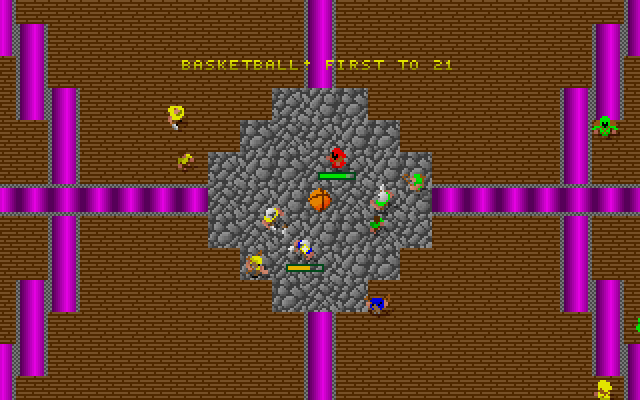
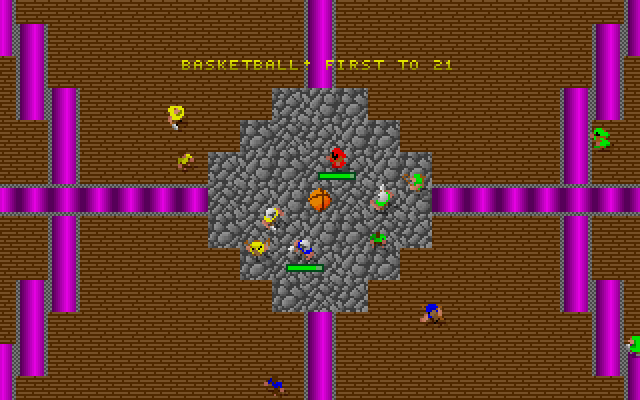
PR 190 proof media refresh: hoop sprite

diff --git a/pr-190/manifest.md b/pr-190/manifest.md
@@ -1,0 +1,76 @@
+# Basketball mode PR media manifest
+
+All captures come from `openglad_demo` (build: `cmake --build --preset ci-test --target openglad_demo`)
+running headless, fully seeded, one 320x200 session, one indexed BMP per simulation tick.
+Common env for every run:
+`SDL_VIDEODRIVER=dummy SDL_AUDIODRIVER=dummy SDL_RENDER_DRIVER=software OPENGLAD_DEMO_GRID=1x1 OPENGLAD_DEMO_CAMPAIGN=modes OPENGLAD_DEMO_TEAM_SIZE=5 OPENGLAD_DEMO_CAPTURE_DIR=<dir> OPENGLAD_CONFIG_DIR=<fresh dir>`
+(frame NNNNN below = dump `frameNNNNN.bmp`, i.e. simulation tick NNNNN+1; runs are
+deterministic — identical env reproduces identical frames). Post-processing mirrors
+`scripts/media/capture_showcase.sh`: 2x nearest-neighbour upscale; stills via
+palettegen/paletteuse to pal8 PNG; GIFs via the two-pass palette chain from the raw
+BMPs with 0.08 s per tick (game speed, 12.25 ticks/s) and a short hold on the last frame.
+
+All eight rows below were recaptured 2026-08-09 on the PR #190 head. Two sim
+changes landed after the original 2026-08-06 captures — Teams: Match bot-squad
+fill (`456fafb7`) and the D28 throw-release refund (`4c695a48`) — so the old
+frame windows no longer reproduce on this tree; every window was re-located on
+the new timeline by the same announce/ball/hoop frame-scan method, never
+spliced. The intended visual deltas from the 2026-08-06 artifacts are the
+dedicated hoop sprite (D29: orange rim ring + net, team tick marks) wherever a
+rim is in frame, and the net-ripple swish frames at made baskets and dunks.
+
+| file | reproduction | caption |
+|------|--------------|---------|
+| court-824.png | `OPENGLAD_DEMO_SEED=11 OPENGLAD_DEMO_SCENARIOS=824 OPENGLAD_DEMO_CAPTURE_FOCUS=boss OPENGLAD_DEMO_CAPTURE_LIMIT=2500`, frame 01206 | CENTER COURT's west hoop: the ball hangs at the top of its arc over the key, its ground shadow marking the landing spot at the shooter's feet, the rim sprite — orange ring, red team ticks, net at rest — waiting on its carpet pad below. |
+| court-825.png | `OPENGLAD_DEMO_SEED=5 OPENGLAD_DEMO_SCENARIOS=825 OPENGLAD_DEMO_CAPTURE_FOCUS=boss OPENGLAD_DEMO_CAPTURE_LIMIT=2200`, frame 00600 | THE PLAYGROUND: cramped half-court walls, short arc, and "BASKET! GREEN +2" going up as the shooter holds the key beside the scored-on rim, its net still mid-ripple. |
+| court-826.png | `OPENGLAD_DEMO_SEED=7 OPENGLAD_DEMO_SCENARIOS=826 OPENGLAD_DEMO_CAPTURE_FOCUS=center OPENGLAD_DEMO_CAPTURE_LIMIT=2500`, frame 00033 | FOUR HOOPS: the ball waits on the centre circle at the opening tip while all four bands — red, green, blue, yellow — close in under "BASKETBALL! FIRST TO 21". |
+| court-827.png | `OPENGLAD_DEMO_SEED=5 OPENGLAD_DEMO_SCENARIOS=827 OPENGLAD_DEMO_CAPTURE_FOCUS=boss OPENGLAD_DEMO_CAPTURE_LIMIT=2200`, frame 01610 | THE BANKHOUSE: a shot arcs into the west key past the wing pillars that make straight lanes die and banks live, its ground shadow already down beside the rim sprite on the tile where it will drop. |
+| court-828.png | `OPENGLAD_DEMO_SEED=5 OPENGLAD_DEMO_SCENARIOS=828 OPENGLAD_DEMO_CAPTURE_FOCUS=boss OPENGLAD_DEMO_CAPTURE_LIMIT=2200`, frame 00912 | BENCHWARMERS: a green skeleton substitute holds the west key as the net ripples for "BASKET! GREEN +2", the bone-pile bench that raised it visible in the wall above. |
+| shot-arc.gif | `OPENGLAD_DEMO_SEED=11 OPENGLAD_DEMO_SCENARIOS=824 OPENGLAD_DEMO_CAPTURE_FOCUS=boss OPENGLAD_DEMO_CAPTURE_LIMIT=2500`, frames 01178-01234 @ 0.08 s | A full possession on CENTER COURT: the carry rolls into the west key, the shooter lofts the ball — its ground shadow tracking beneath the arc — and it drops through the rim, the net rippling through its swish frames under "BASKET! GREEN +2". |
+| dunk-drive.gif | `OPENGLAD_DEMO_SEED=5 OPENGLAD_DEMO_SCENARIOS=828 OPENGLAD_DEMO_CAPTURE_FOCUS=boss OPENGLAD_DEMO_CAPTURE_LIMIT=2200`, frames 00458-00521 @ 0.08 s | A bench-raised skeleton catches the dropping rebound, carries the ball overhead down the lane past the closing defense, and walks the rim tile: "DUNK! GREEN +2", the net snapping through its ripple. |
+| four-hoops.gif | `OPENGLAD_DEMO_SEED=7 OPENGLAD_DEMO_SCENARIOS=826 OPENGLAD_DEMO_CAPTURE_FOCUS=center OPENGLAD_DEMO_CAPTURE_LIMIT=2500`, frames 00030-00106 @ 0.08 s | Four-team chaos on FOUR HOOPS: the jump-ball scramble at centre court, all four squads brawling for the first possession before the break-out. |
+
+Notes: `OPENGLAD_DEMO_TEAM_SIZE=5` fields the red roster (the mode's lazy first-tick
+init would otherwise leave team 0 empty for one tick and the spectator client ends the
+match). Boss focus follows the strongest green bot, which the mode's AI director keeps
+near the play. No made three-pointer occurred in the five recaptured matches either,
+so shot-arc.gif again shows a made inside-the-arc jumper (2 points). The ball's
+black-cored ground shadow (sprite frame keyed to the ball's height) still shows
+whenever the ball is airborne and marks where it will land. The 826 centre-camera
+rows show no rim: the four goals sit at the wall carpets of a 656x656 px court,
+outside any 320x200 window that holds the centre circle. Determinism: an independent
+second run of the 824 recipe reproduced all 2500 frame dumps byte-identical
+(diff -rq clean), so every announce lands on the same tick on any rerun.
+
+## Hoop sprite refresh (D29-D32, PR #190)
+
+Captured 2026-08-09 on the PR #190 head — the same tree and timeline as the
+rows above (run A is the very run behind court-824.png and shot-arc.gif; run B
+differs from the court-826/four-hoops run only in its `boss` camera focus).
+Same common env as above; two runs:
+
+- run A: `OPENGLAD_DEMO_SEED=11 OPENGLAD_DEMO_SCENARIOS=824 OPENGLAD_DEMO_CAPTURE_FOCUS=boss OPENGLAD_DEMO_CAPTURE_LIMIT=2500`
+- run B: `OPENGLAD_DEMO_SEED=7 OPENGLAD_DEMO_SCENARIOS=826 OPENGLAD_DEMO_CAPTURE_FOCUS=boss OPENGLAD_DEMO_CAPTURE_LIMIT=2500`
+
+The rim renders basketball-orange (static fire-ramp 232-235); team identity is
+the four compass tick marks in the 248-255 remap band. Crops are stated as
+`WxH+X+Y` on the native 320x200 dump; stills go through the same
+palettegen/paletteuse chain as above.
+
+| file | reproduction | caption |
+|------|--------------|---------|
+| hoop-idle-824.png | run A, frames 00450 (crop 110x96+10+2) + 01650 (crop 110x96+164+43), 4x, hstack | CENTER COURT's two rims at rest, one crop per goal: red-tick and green-tick rims idle on their carpet pads (one 320x200 window cannot hold both — the hoops sit 608 px apart). |
+| hoop-swish-824.png | run A, frame 01213, 2x full frame | "BASKET! GREEN +2" on the board while the scored-on rim's net holds swish frame 2 — stretched deep and narrow, mid-ripple — on the west carpet. |
+| hoop-swish-strip-824.png | run A, frames 01208/01210/01212/01213/01214/01215/01217/01219/01221, 44x40 rim crops, 5x | The whole made-basket ripple: net at rest, pushed wide (frame 1), stretched narrow (frame 2), snap-back overshoot (frame 3), settle. |
+| hoop-clang-824.png | run A, frame 01155, 2x full frame | A missed shot clangs off the west rim: the ring flashes gold-bright (clang frame 4) as the ball pops away over the key. |
+| hoop-clang-strip-824.png | run A, frames 01152/01154/01155/01156/01157/01158/01159/01161/01163, 44x40 rim crops, 5x | Idle rim, four bright gold-flecked clang ticks (frame 4), dim after-flash (frame 5), recovery. |
+| hoop-tints-826.png | run B, frames 00892 (crop 100x88+114+29), 00190 (100x88+186+23), 00443 (100x88+179+101), 01180 (100x88+3+29), 4x, 2x2 | FOUR HOOPS, all four goals: red, green, blue and yellow tick tints on live rims (656x656 px court — no single 320x200 frame holds four rims, so one crop per goal). |
+| hoop-frames.png | `python3` render of `campaigns/modes/packs/modes.core/sprites/hoop.png`: 6 frames x (neutral + 4 team tints via the walkputbuffer remap p>247 -> teamcolor+(255-p)) over cobble/carpet/hardwood grounds, 4x | Generator-truth sprite sheet: idle, swish 1-3, clang bright/dim, per team tint — the art the engine draws before camera and court get involved. |
+
+Note on D32 item (5), "826 two-team partial spawn": not capturable by
+`openglad_demo` — the activation clamp reads the lobby `team_count`
+(`og.match_setting`, world `ctf_requested_team_count`), which is save-file
+state the demo bootstraps to Auto with no env override, and Auto activates all
+four authored anchor teams on shipped 826. The behavior is pinned by unit test
+`ModesBasketball.hoop_partial_spawn_two_of_four` (exactly two rims spawn, nil
+for both dead goals); `hoop-frames.png` stands in as the fifth visual.
